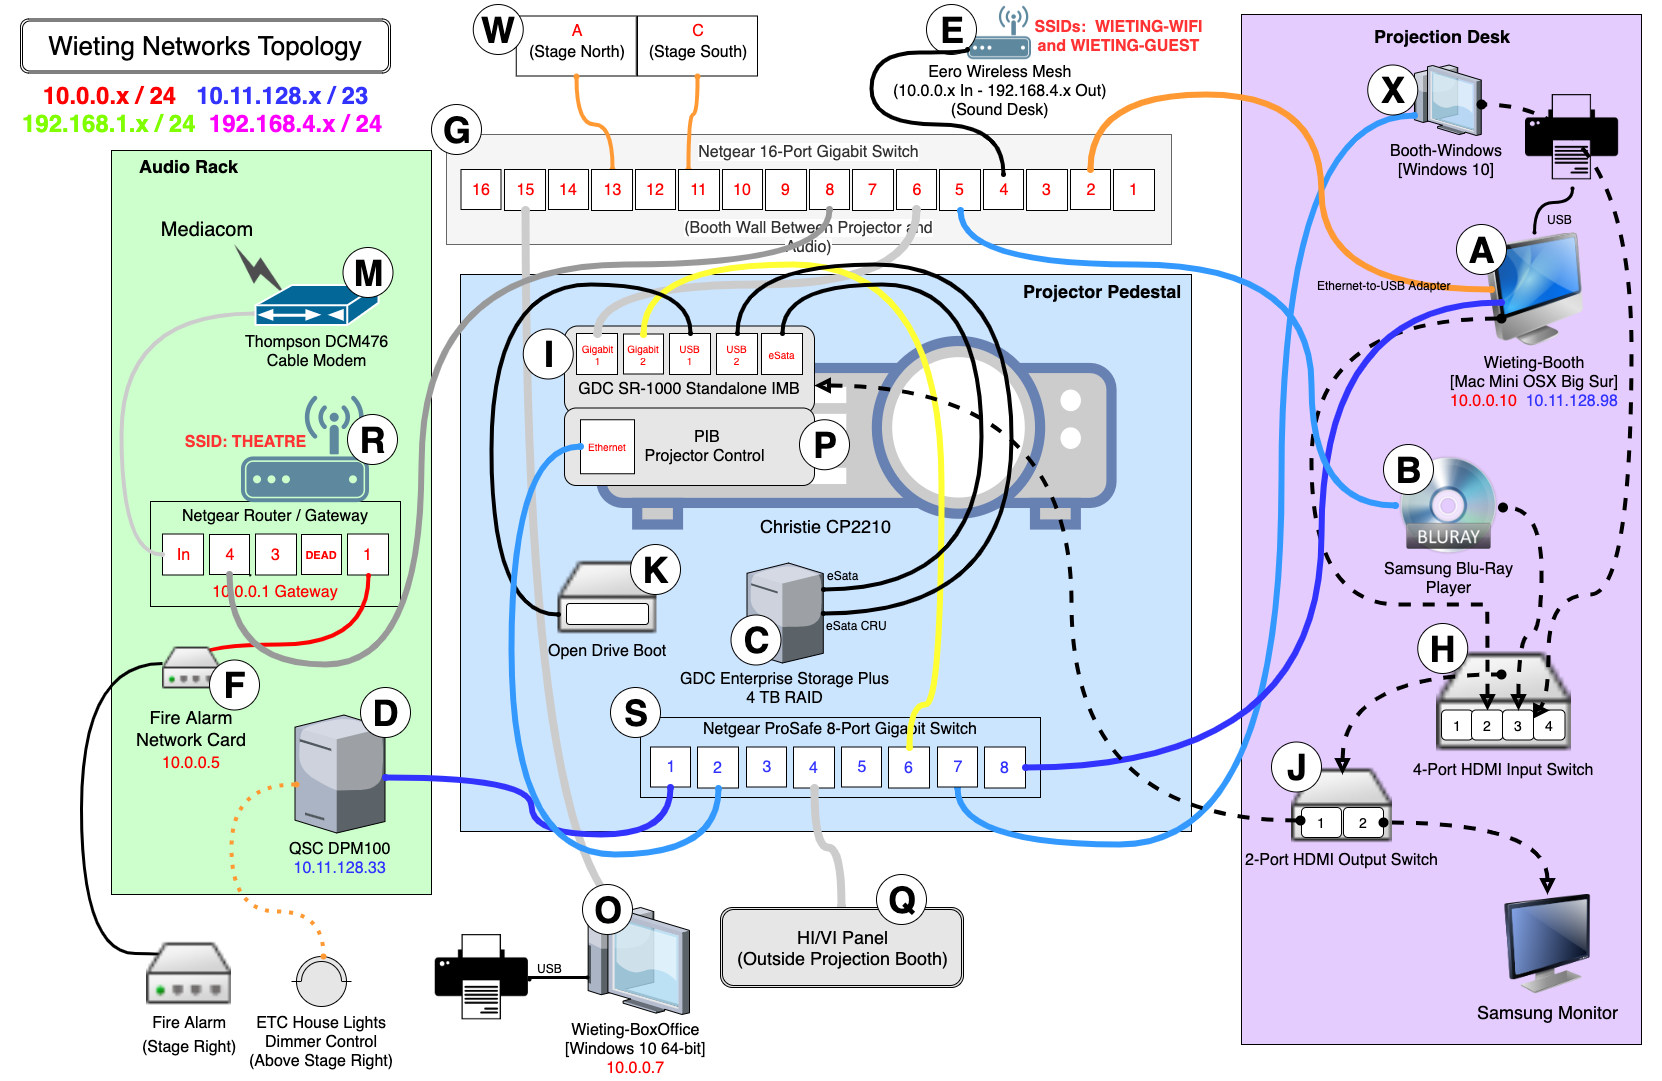
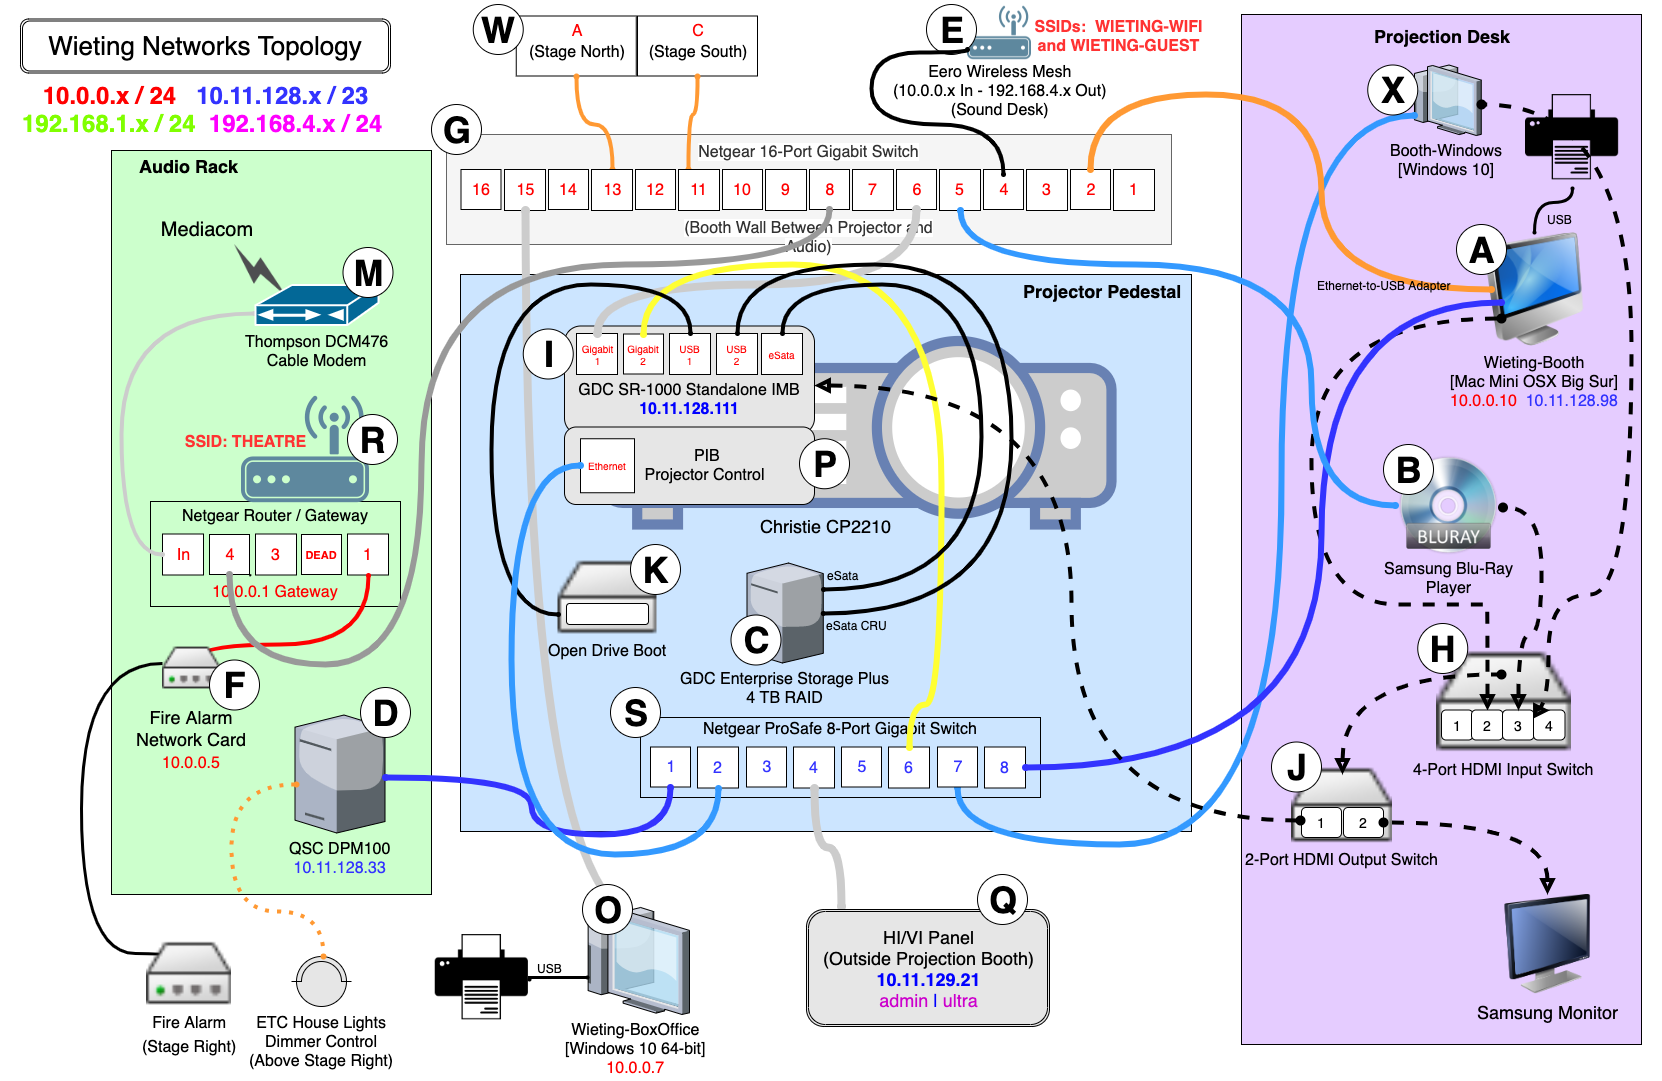
Updated networks diagram with HI/VI info

Changed region(s): [[0.4296, 0.8242, 0.6444, 0.9769], [0.3069, 0.3358, 0.5217, 0.519]]

diff --git a/site/content/event/past/2021-11-27.1900_ghostbusters-afterlife.md b/site/content/event/past/2021-11-27.1900_ghostbusters-afterlife.md
@@ -1,10 +1,9 @@
 ---
-date: 2021-11-28 19:00:00-06:00
+date: 2021-11-27 19:00:00-06:00
 dateRange: Nov 19-21, 25!, and 26-28
 dates: every Thursday Friday Saturday Sunday at 7:00 pm starting Nov 19 2021 ending
   Nov 28 2021
 draft: false
-expiryDate: 2021-11-29
 imdbURL: https://www.imdb.com/title/tt4513678/?ref_=tt_mv_close
 mpaaRating: PG-13
 officialURL: https://www.facebook.com/Ghostbusters/

diff --git a/site/content/event/past/2021-11-28.1900_ghostbusters-afterlife.md b/site/content/event/past/2021-11-28.1900_ghostbusters-afterlife.md
@@ -1,10 +1,9 @@
 ---
-date: 2021-11-27 19:00:00-06:00
+date: 2021-11-28 19:00:00-06:00
 dateRange: Nov 19-21, 25!, and 26-28
 dates: every Thursday Friday Saturday Sunday at 7:00 pm starting Nov 19 2021 ending
   Nov 28 2021
 draft: false
-expiryDate: 2021-11-29
 imdbURL: https://www.imdb.com/title/tt4513678/?ref_=tt_mv_close
 mpaaRating: PG-13
 officialURL: https://www.facebook.com/Ghostbusters/

diff --git a/site/content/show/2021-11-28_ghostbusters-afterlife.md b/site/content/show/2021-11-28_ghostbusters-afterlife.md
@@ -10,11 +10,7 @@ mpaaRating: PG-13
 officialURL: https://www.facebook.com/Ghostbusters/
 oneSheet: /img/il_1140xn.2976262000_jd3k.jpg
 performanceList:
-  performance:
-  - date: 2021-11-27 19:00:00-06:00
-    format: 2D
-  - date: 2021-11-28 19:00:00-06:00
-    format: 2D
+  performance: []
 runningTime: 120
 shortTitle: 'Ghostbusters: Afterlife'
 showType: Cinema
